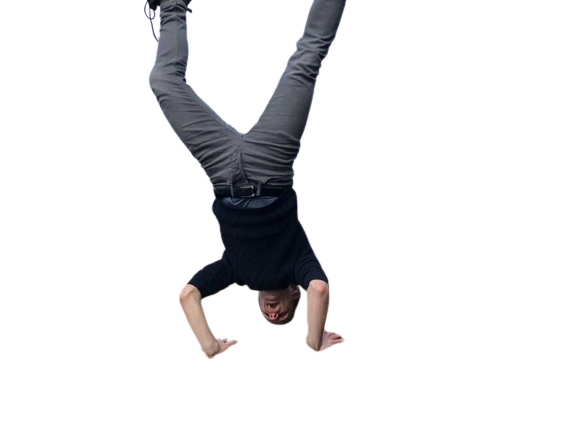
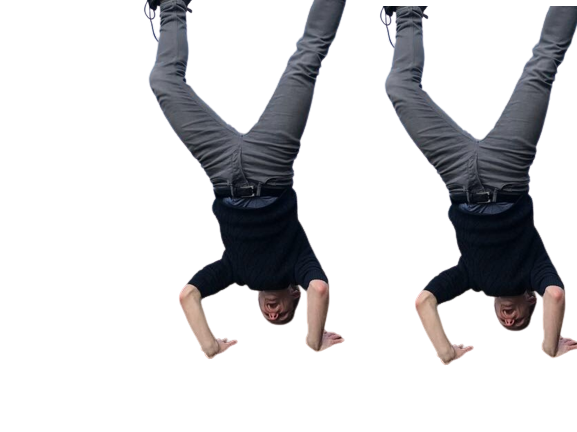
Sorted images out and added joke

Changed region(s): [[0.6551, 0.0, 1.0, 0.8426]]

diff --git a/style.css b/style.css
@@ -4,11 +4,13 @@
 }
 
 .container {
-  width: 700px;
+  position: relative;
+  width: 100vw;
   margin: 0 auto;
 }
 
 body {
+  position: relative;
   color: white;
   background-color: #111827;
   font-family: 'Inter', sans-serif;
@@ -164,16 +166,18 @@ p {
 }
 
 .card-social {
-  width: 700px;
+  width: 500px;
   height: 140px;
   text-align: center;
-  margin: 80px 0px;
+  margin: auto;
+  margin-top: 120px;
   background-color: #111827;
   border: #23D3ED solid 0.9px;
   border-radius: 12px;
   box-shadow: 0px 0px 20px #23d3ec;
   transition-property: box-shadow;
   transition-duration: 0.25s;
+  padding-bottom: 20px;
 }
 
 .card-social:hover {
@@ -209,34 +213,48 @@ i:hover {
   margin-bottom: 24px;
 }
 
+.beam-container {
+  display: flex;
+  justify-content: center;
+}
+
 #beam {
   position: absolute;
   z-index: -5;
-  width: 1400px;
-  height: 700px;
+  max-width: 1050px;
+  min-width: 200px;
+  display: flex;
+  justify-content: center;
+  /* width: 1400px; */
+  /* height: 700px; */
+}
+
+#joke {
+  padding: 0px;
+  margin-top: 12px;
+  margin-bottom: 8px;
+  font-size: 14px;
+  color: gray;
+  font-style: italic;
+}
+
+.background-images {
+  position: absolute;
+  display: flex;
+  justify-content: space-between;
+  gap: 600px;
+  z-index: -2;
+  bottom: 0px;
 }
 
 .img-left {
-  position: absolute;
   z-index: -1;
   opacity: 0.4;
-  width: 400px;
-  height: 350px;
 }
 
 .img-right {
-  position: absolute;
-  right: 0px;
   z-index: -1;
   opacity: 0.4;
-  width: 450px;
-  height: 350px;
-}
-
-.card-social {
-  position: sticky;
-  width: 700x;
-  margin: 80px auto;
 }
 
 @media (max-width: 960px) {

diff --git a/index.html b/index.html
@@ -13,7 +13,7 @@
 </head>
 
 <body>
-  <div>
+  <div class="beam-container">
     <img id="beam" src="images/beams.jpeg" alt="Beams">
   </div>
   <div class="container">
@@ -49,14 +49,6 @@
     </div>
   </div>
 
-  <div class="img-left">
-    <img src="images/tongue_out.png" alt="Tongue Out">
-  </div>
-
-  <div>
-    <img class="img-right" src="images/head_stand.png" alt="Headstand">
-  </div>
-
   <div class="card-social">
     <h3>Stalk me here</h3>
     <ul class="list-inline">
@@ -76,6 +68,16 @@
         </a>
       </li>
     </ul>
+    <p id="joke">Award for the funniest joke? That goes to Carly's flexbox skills 💅🏼</p>
+  </div>
+
+  <div class="background-images">
+    <div class="img-left">
+      <img src="images/tongue_out.png" alt="Tongue Out">
+    </div>
+    <!-- <div>
+      <img class="img-right" src="images/head_stand_2 .png" alt="Headstand">
+    </div> -->
   </div>
 </body>
 
